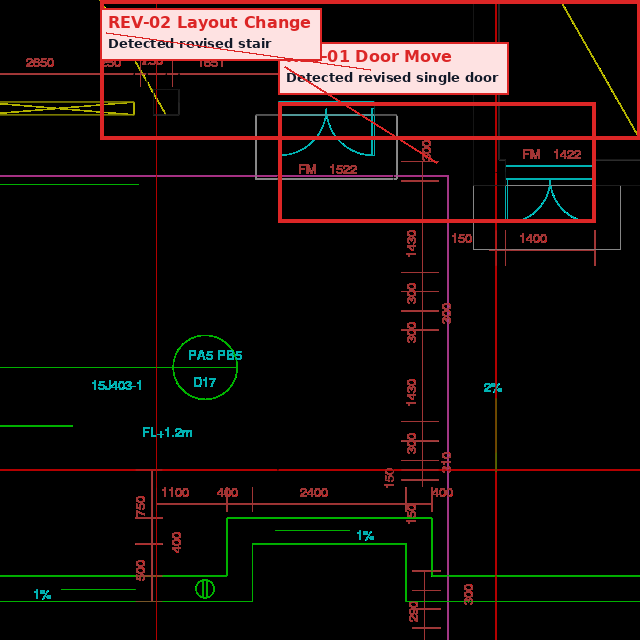
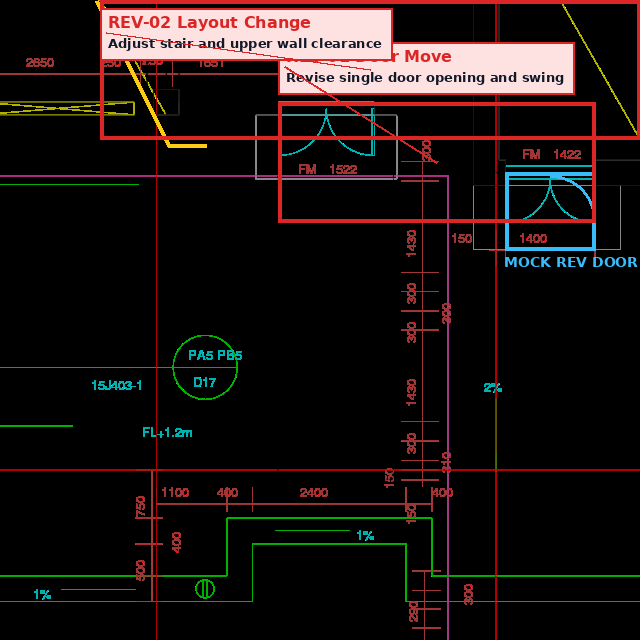
daddy changed

diff --git a/data/samples/pitch_revised_floor_plan/generate_0009_mock_revision.py b/data/samples/pitch_revised_floor_plan/generate_0009_mock_revision.py
@@ -1,0 +1,77 @@
+"""Generate a mock revised image and annotated output for archive sample 0000-0009."""
+from __future__ import annotations
+
+from pathlib import Path
+import sys
+
+from PIL import Image, ImageDraw, ImageFont
+
+ROOT = Path(__file__).resolve().parents[3]
+sys.path.insert(0, str(ROOT))
+
+from arkirev.annotations import annotate_revised_plan
+
+SOURCE = ROOT / "archive" / "FloorPlanCAD_YOLOv8_Full" / "images" / "0000-0009.png"
+BASE_COPY = Path(__file__).with_name("0000-0009_base_original.png")
+REVISED = Path(__file__).with_name("0000-0009_revised_mock.png")
+ANNOTATED = Path(__file__).with_name("0000-0009_annotated_demo.png")
+
+
+def _font(size: int) -> ImageFont.FreeTypeFont | ImageFont.ImageFont:
+    for candidate in (
+        "/usr/share/fonts/truetype/dejavu/DejaVuSans-Bold.ttf",
+        "/usr/share/fonts/truetype/dejavu/DejaVuSans.ttf",
+        "arial.ttf",
+    ):
+        try:
+            return ImageFont.truetype(candidate, size)
+        except OSError:
+            continue
+    return ImageFont.load_default()
+
+
+def generate_revised() -> list[dict[str, object]]:
+    image = Image.open(SOURCE).convert("RGB")
+    image.save(BASE_COPY)
+    draw = ImageDraw.Draw(image)
+    font = _font(14)
+
+    changes: list[dict[str, object]] = [
+        {
+            "summary": "Revise single door opening and swing",
+            "category": "door_move",
+            "severity": "medium",
+            "trade": "carpentry",
+            "verify_before_build": True,
+            "bbox": [278.32, 102.13, 316.72, 120.48],
+        },
+        {
+            "summary": "Adjust stair and upper wall clearance",
+            "category": "layout_change",
+            "severity": "medium",
+            "trade": "general",
+            "verify_before_build": True,
+            "bbox": [100.11, 0.0, 539.89, 139.32],
+        },
+    ]
+
+    # Mock revision marks. These are intentionally blue/yellow so the red
+    # annotation output remains visually distinct.
+    draw.rectangle((505, 172, 595, 250), outline="#38bdf8", width=4)
+    draw.arc((505, 175, 595, 265), 270, 360, fill="#38bdf8", width=3)
+    draw.text((504, 254), "MOCK REV DOOR", fill="#38bdf8", font=font)
+
+    draw.line((96, 0, 168, 145), fill="#facc15", width=4)
+    draw.line((168, 145, 206, 145), fill="#facc15", width=4)
+    draw.text((188, 18), "MOCK REV CLEARANCE", fill="#facc15", font=font)
+
+    image.save(REVISED)
+    return changes
+
+
+if __name__ == "__main__":
+    revision_changes = generate_revised()
+    annotate_revised_plan(REVISED, {"changes": revision_changes}, ANNOTATED)
+    print(BASE_COPY)
+    print(REVISED)
+    print(ANNOTATED)

diff --git a/data/samples/pitch_revised_floor_plan/README.md b/data/samples/pitch_revised_floor_plan/README.md
@@ -6,9 +6,12 @@ This folder contains a pitch-ready floor-plan pair for the ArkiRev MVP.
 
 - `RevA_approved.png` - approved baseline plan
 - `RevB_revised.png` - revised plan with visible red markup callouts
+- `0000-0009_base_original.png` - archive sample to upload as the approved/original plan
+- `0000-0009_revised_mock.png` - mock revised version to upload as the revised plan
 - `0000-0009_annotated_demo.png` - example output image with generated change labels
 - `revision_analysis.json` - structured change data matching the backend contract
 - `generate_pitch_assets.py` - deterministic asset generator
+- `generate_0009_mock_revision.py` - generator for the 0009 original/revised/annotated demo trio
 
 ## Demo Story
 
@@ -21,6 +24,17 @@ Rev B introduces three field-impacting changes:
 Use `RevA_approved.png` and `RevB_revised.png` for the pitch visual, then feed
 `revision_analysis.json` into `run_revision_workflow(...)` to show budget,
 schedule, implementation windows, risks, and the MVP report summary.
+
+## 0009 Upload Demo
+
+Use this sequence to pitch the uploaded-plan flow:
+
+1. Upload `0000-0009_base_original.png` as the approved floor plan.
+2. Upload `0000-0009_revised_mock.png` as the revised floor plan.
+3. Show `0000-0009_annotated_demo.png` as the expected ArkiRev output.
+
+The mock revised image contains blue/yellow draft changes. The annotated output
+adds ArkiRev red labels and boxes to map what changed on the revised plan.
 
 ## Annotation Note
 
